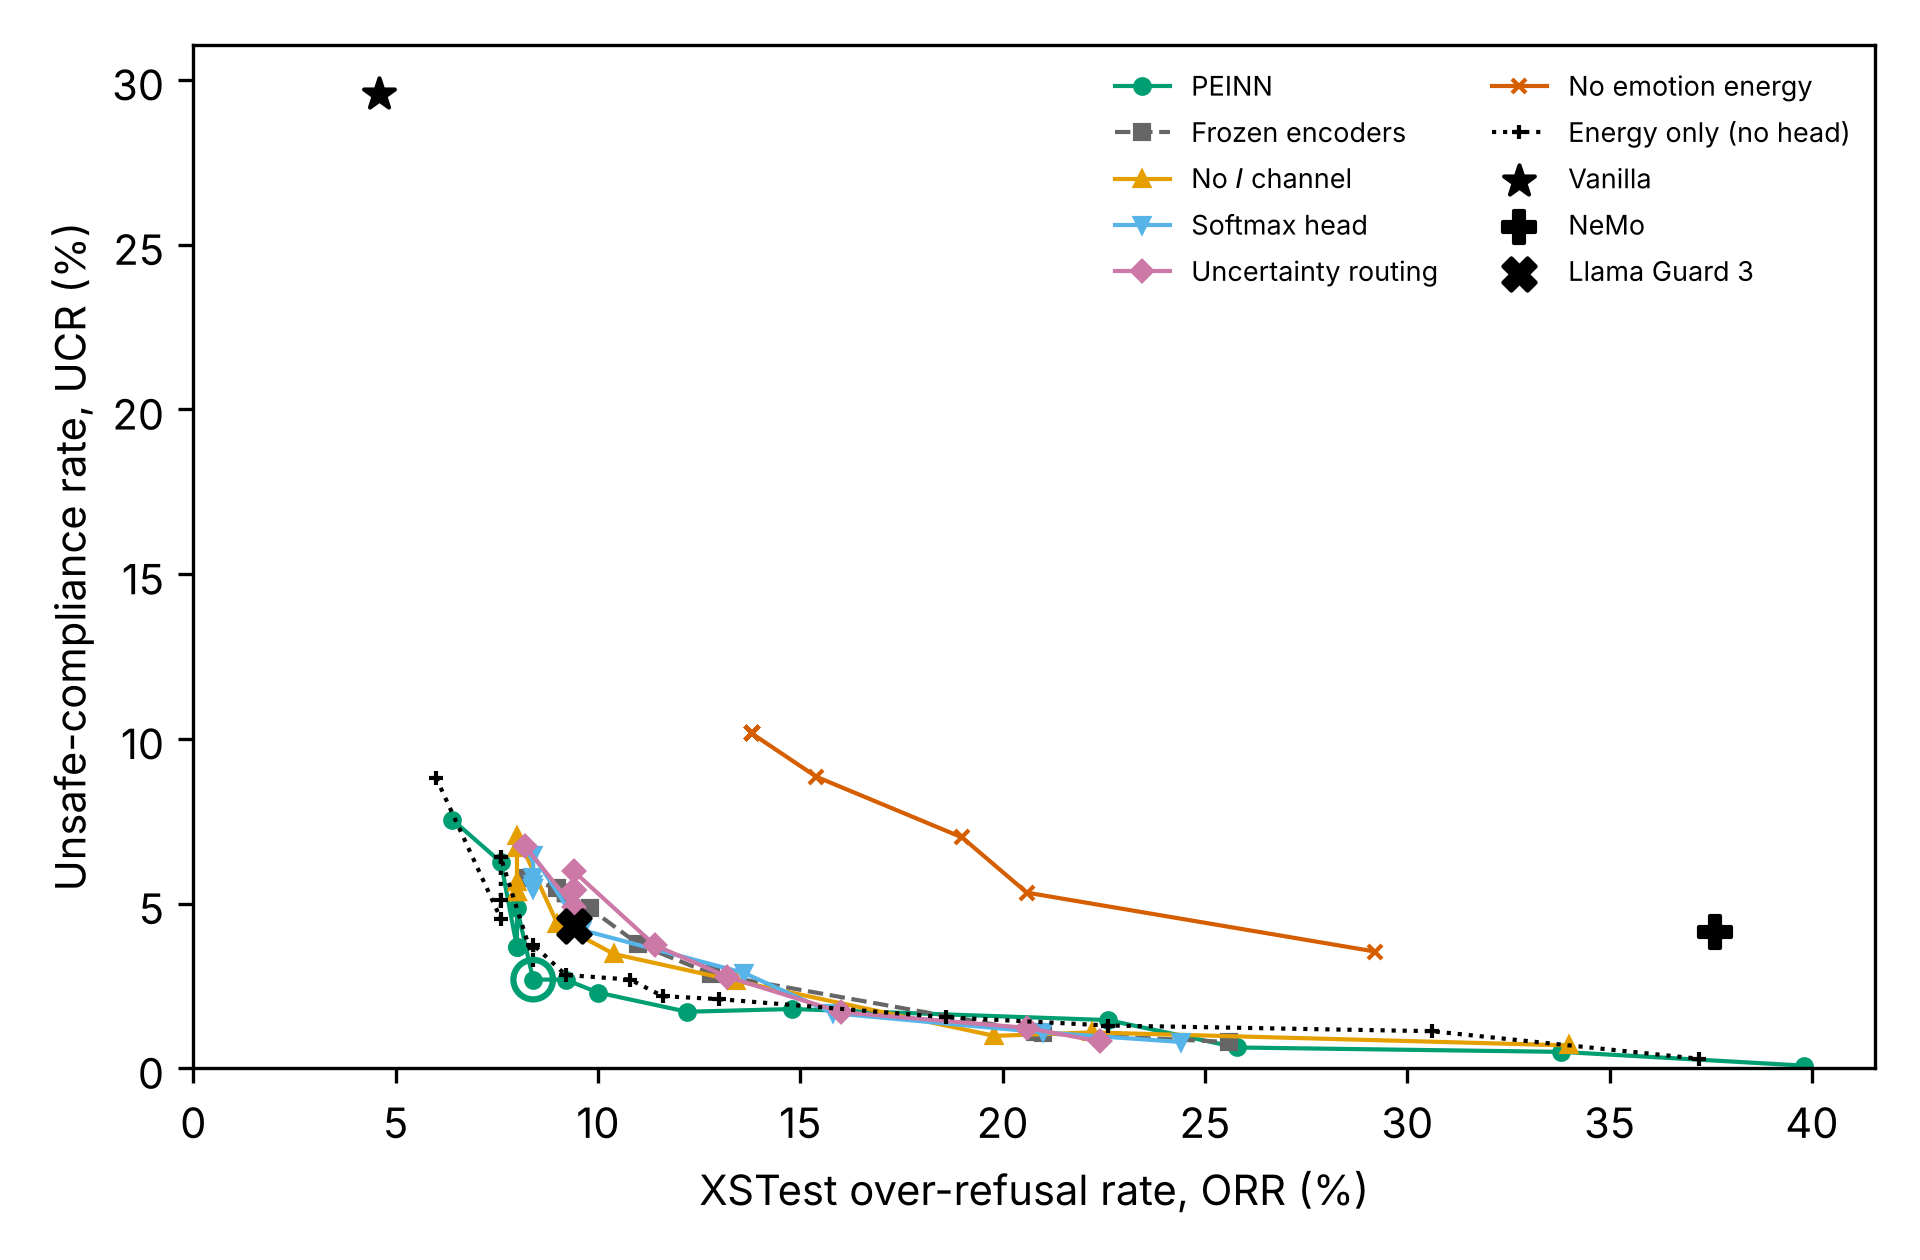
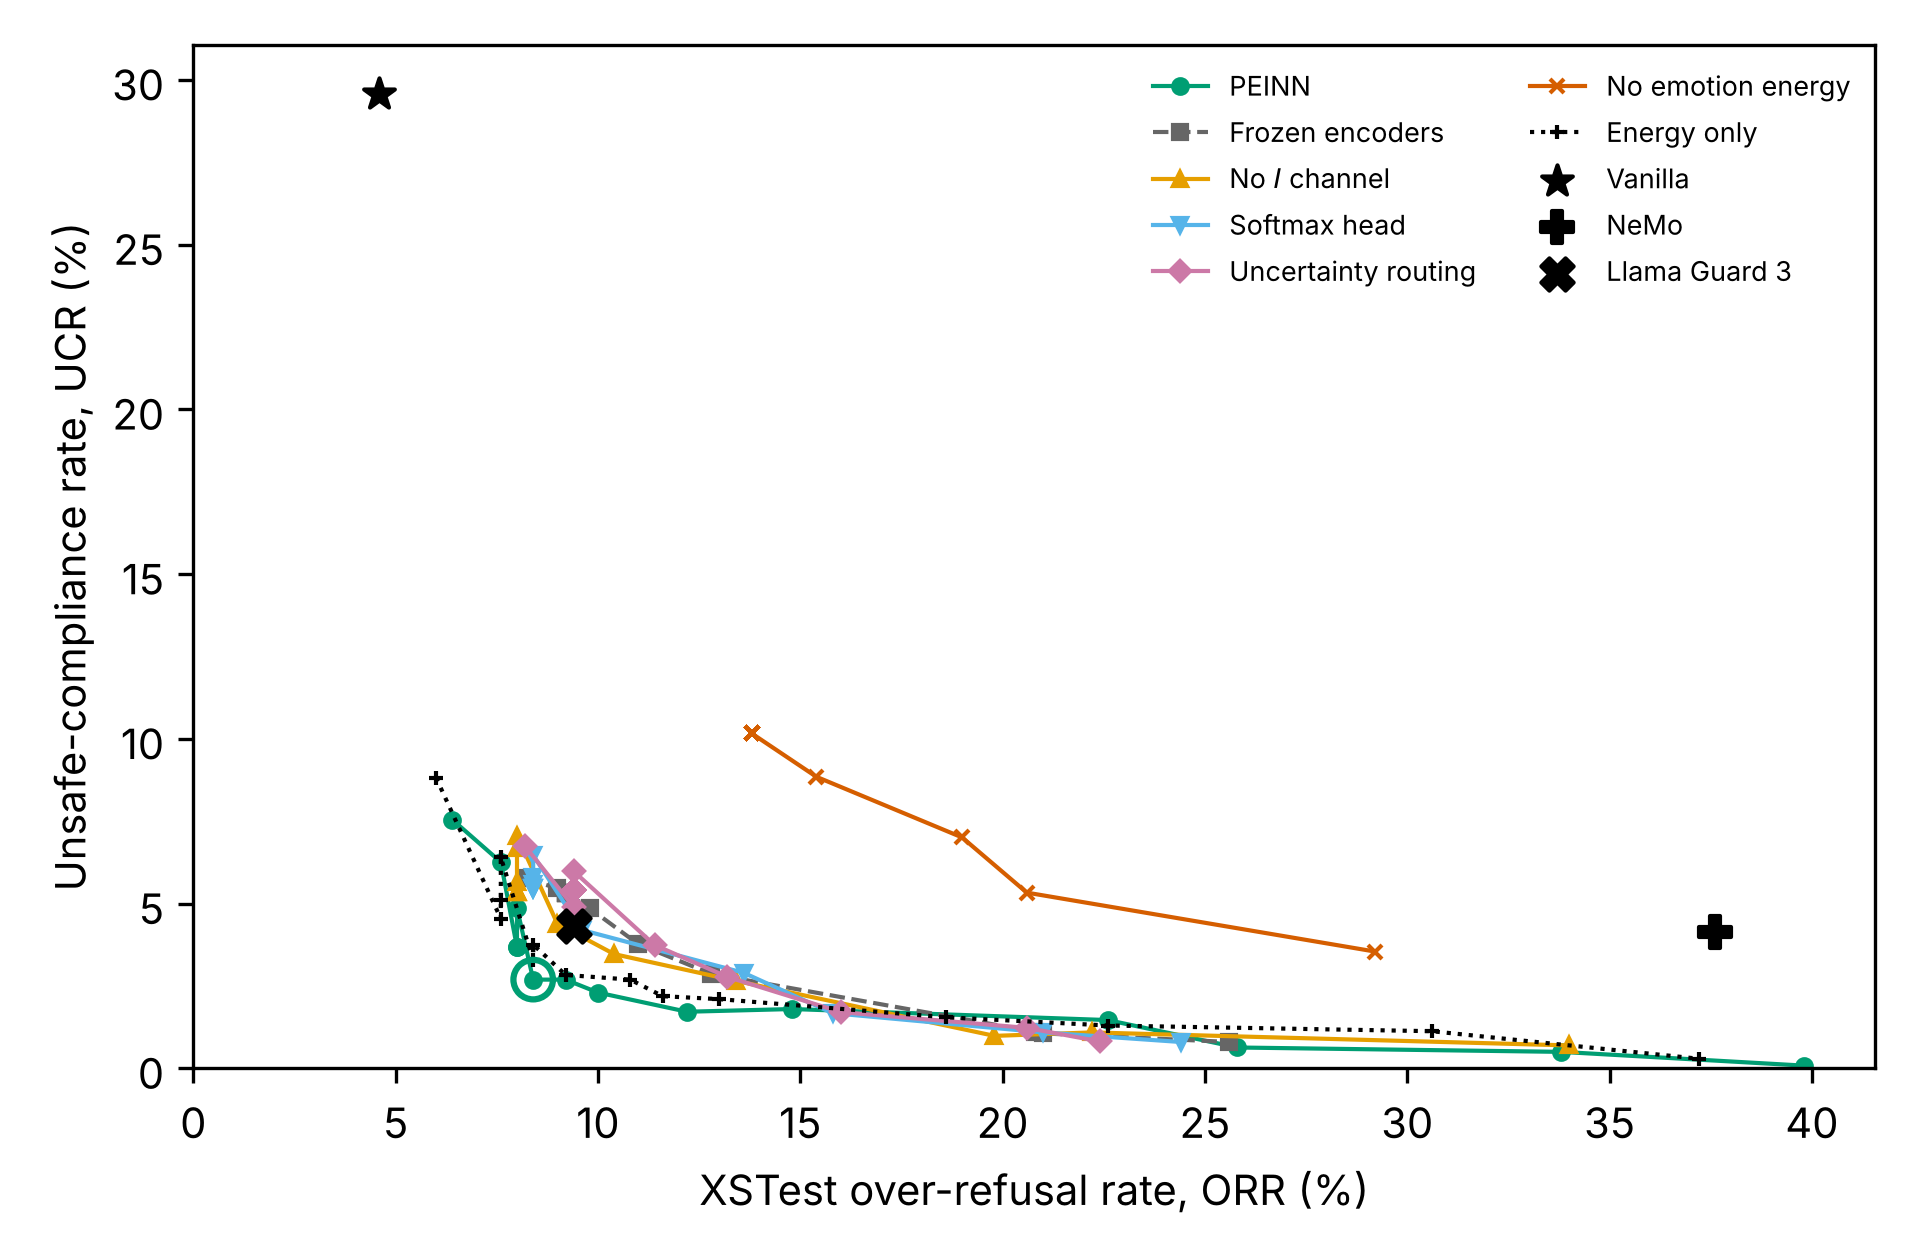
v21r paper tables: calibration, route cost and grouped ablation table for Section 4.7-4.10 (DESIGN.md 37)
Claude-Session: https://claude.ai/code/session_01EYuobj3uWoUKAsLA4THHsZ

Changed region(s): [[0.7812, 0.0619, 0.9688, 0.2476], [0.5938, 0.0619, 0.75, 0.2476]]

diff --git a/revision/aai_r1/v21r/paper_methods.py b/revision/aai_r1/v21r/paper_methods.py
@@ -91,7 +91,57 @@ def paper_methods(check: bool = False, log=print) -> int:
     C.jdump(out, o / "methods.json")
     log(f"  test {test}\n  routes {routes}\n  harmbench {harm}")
     figures(u, th, harm, o)
+    calibration(check, o)
+    route_cost(check, o)
     return 0
+
+
+def _r3(x: float) -> str:
+    """Three decimals, half up (the stored values have four)."""
+    from decimal import ROUND_HALF_UP, Decimal
+    return str(Decimal(str(x)).quantize(Decimal("0.001"), rounding=ROUND_HALF_UP))
+
+
+def calibration(check: bool, o) -> None:
+    """ECE and Brier of the main variant's T, I, F on the test split, and F against XSTest's human labels
+    (analysis.json); ten-bin reliability diagrams."""
+    a = C.jload(D.odir(check) / "analysis" / "analysis.json")
+    c, x = a["calibration"][TH.MAIN_VARIANT], a["xstest_F"][TH.MAIN_VARIANT]
+    rows = [(f"${k}$", "test split, teacher label", c[k]["binary"]) for k in ("T", "I", "F")]
+    rows.append(("$F$", "XSTest, human label", x))
+    (o / "tab_calibration.tex").write_text("\n".join(f"{a_} & {b} & {r['n']:,} & {_r3(r['ece'])} & {_r3(r['brier'])} \\\\".replace(f"{r['n']:,}", f"{r['n']:,}".replace(",", "{,}"))
+                                                     for a_, b, r in rows) + "\n", encoding="utf-8")
+    import matplotlib
+    matplotlib.use("Agg")
+    import matplotlib.pyplot as plt
+    fig, axes = plt.subplots(1, 4, figsize=(12, 3.1))
+    for ax, (lab, src, r) in zip(axes, rows):
+        rel = r.get("reliability") or []
+        ax.plot([0, 1], [0, 1], color="#999", lw=0.8, ls="--")
+        ax.plot([q["conf"] for q in rel], [q["acc"] for q in rel], marker="o", ms=3.5, color="#009e73", lw=1)
+        ax.set_xlim(0, 1)
+        ax.set_ylim(0, 1)
+        ax.set_xlabel(f"Predicted {lab}")
+        ax.set_title(f"{lab}, {src} (ECE {_r3(r["ece"])})", fontsize=8.5)
+    axes[0].set_ylabel("Observed share of positives")
+    fig.tight_layout()
+    fig.savefig(o / "calibration.png", dpi=300, bbox_inches="tight")
+    plt.close(fig)
+
+
+def route_cost(check: bool, o) -> None:
+    """Generation calls, input and output tokens and Ollama generation seconds per request for each route and base
+    (route_cost.json tiers, deployed accounting: a Hard-block calls nothing)."""
+    t = C.jload(D.odir(check) / "route_cost.json")["tiers"]
+    bases = ("zephyr", "qwen", "gemma4", "gemma3")
+    body = []
+    for tier in TIERS:
+        r = [t[f"{b}|{tier}"]["deployed"] for b in bases]
+        calls = {int(x["calls"]) for x in r}
+        cells = [LABEL[tier], "/".join(str(c) for c in sorted(calls))]
+        cells += [f"{x['prompt_tokens'] + x['output_tokens']:.0f}" for x in r] + [f"{x['ollama_s']:.2f}" for x in r]
+        body.append(" & ".join(cells) + " \\\\")
+    (o / "tab_route_cost.tex").write_text("\n".join(body) + "\n", encoding="utf-8")
 
 
 def figures(u: pd.DataFrame, th: dict, harm: dict, o) -> None:

diff --git a/revision/aai_r1/v21r/paper_ablation.py b/revision/aai_r1/v21r/paper_ablation.py
@@ -30,12 +30,14 @@ BENCHES = ("harmbench", "taxonomy", "xstest", "ethics", "morables")
 KEYS = {"harmbench": ["behavior_id"], "xstest": ["item_id"], "taxonomy": ["scenario_id"], "ethics": ["instrument", "item_id"],
         "morables": ["item_id", "variant"]}
 MAIN = f"{TH.MAIN_VARIANT}@{TH.MAIN_CAP:g}"
-LABEL = {"A0ftM": "PEINN", "A0ft": "Fine-tuned encoders, no OOD term", "A0": "Frozen encoders",
+LABEL = {"A0ftM": "PEINN", "A0ft": "No OOD check", "A0": "Frozen encoders",
          "A1": "No $I$ channel", "A2": "Softmax head", "A3": "Uncertainty routing", "A5": "No emotion energy",
-         "A6p": "No principle anchors", "A6e": "No emotion feature", "A7": "Fine-tuned MiniLM classifier",
+         "A6p": "No principle anchors", "A6e": "No emotion feature", "A7": "MiniLM classifier",
          "A4a": "Always Direct", "A4b": "Always Deliberation", "A4c": "Block + Direct", "A4d": "Block + Deliberation",
-         "A9": "Energy only (no head)"}
-ROWS = ("A0ftM", "A0ft", "A0", "A1", "A2", "A3", "A5", "A6p", "A6e", "A7", "A9", "A4a", "A4b", "A4c", "A4d")
+         "A9": "Energy only"}
+# groups, a rule between them: PEINN | encoders (against PEINN) | components (against the frozen-encoder A0) | routing
+GROUPS = (("A0ftM",), ("A0ft", "A0"), ("A1", "A2", "A3", "A5", "A6p", "A6e", "A7"), ("A9", "A4a", "A4b", "A4c", "A4d"))
+ROWS = tuple(v for g in GROUPS for v in g)
 
 
 def forced(check: bool, bench: str, base: str) -> pd.DataFrame:
@@ -133,18 +135,16 @@ def table(out: dict, o) -> None:
     """Mean over the four bases at the main cap; A8 is qwen2.5-7B only, so it is given with qwen's PEINN beside it."""
     cap = f"{TH.MAIN_CAP:g}"
     body = []
-    for v in ROWS:
-        key = v if v.startswith("A4") else f"{v}@{cap}"
-        r = out["variants"].get(key)
-        if not r:
-            continue
-        cells = [LABEL[v]] + [f"{_mean(r, k):.1f}" for k in ("ucr", "orr", "ethics", "morables")]
-        body.append(" & ".join(cells) + " \\\\")
-        if v == "A0ftM":
-            body.append("\\midrule")
-        if v in ("A9",):
-            body.append("\\midrule")
-    body.append("\\midrule")
+    for g in GROUPS:
+        for v in g:
+            key = v if v.startswith("A4") else f"{v}@{cap}"
+            r = out["variants"].get(key)
+            if not r:
+                continue
+            cells = [LABEL[v] if v == "A0ftM" else f"{LABEL[v]} ({v})"]
+            cells += [f"{_mean(r, k):.1f}" for k in ("ucr", "orr", "ethics", "morables")]
+            body.append(" & ".join(cells) + " \\\\")
+        body.append("\\midrule")
     for s, lab in (("Vanilla", "Vanilla (no defense)"), ("NeMo", "NeMo Guardrails"), ("LlamaGuard", "Llama Guard 3")):
         r = out["defences"][s]
         body.append(" & ".join([lab] + [f"{_mean(r, k):.1f}" for k in ("ucr", "orr", "ethics", "morables")]) + " \\\\")

diff --git a/revision/aai_r1/results/paper/tab_ablation.tex b/revision/aai_r1/results/paper/tab_ablation.tex
@@ -1,20 +1,21 @@
 PEINN & 2.7 & 8.4 & 78.4 & 44.4 \\
 \midrule
-Fine-tuned encoders, no OOD term & 2.7 & 8.8 & 78.3 & 44.1 \\
-Frozen encoders & 5.3 & 9.2 & 76.4 & 43.2 \\
-No $I$ channel & 7.1 & 8.0 & 78.6 & 46.3 \\
-Softmax head & 5.5 & 8.4 & 76.7 & 41.2 \\
-Uncertainty routing & 5.4 & 9.4 & 76.4 & 43.2 \\
-No emotion energy & 10.2 & 13.8 & 79.0 & 38.8 \\
-No principle anchors & 7.2 & 7.4 & 79.8 & 41.8 \\
-No emotion feature & 6.0 & 9.0 & 76.6 & 44.0 \\
-Fine-tuned MiniLM classifier & 6.5 & 7.4 & 79.6 & 46.4 \\
-Energy only (no head) & 3.3 & 8.4 & 78.2 & 44.3 \\
+No OOD check (A0ft) & 2.7 & 8.8 & 78.3 & 44.1 \\
+Frozen encoders (A0) & 5.3 & 9.2 & 76.4 & 43.2 \\
 \midrule
-Always Direct & 29.3 & 4.4 & 78.9 & 47.3 \\
-Always Deliberation & 17.0 & 8.8 & 80.0 & 47.3 \\
-Block + Direct & 3.0 & 8.4 & 78.2 & 44.3 \\
-Block + Deliberation & 1.5 & 12.4 & 79.3 & 44.3 \\
+No $I$ channel (A1) & 7.1 & 8.0 & 78.6 & 46.3 \\
+Softmax head (A2) & 5.5 & 8.4 & 76.7 & 41.2 \\
+Uncertainty routing (A3) & 5.4 & 9.4 & 76.4 & 43.2 \\
+No emotion energy (A5) & 10.2 & 13.8 & 79.0 & 38.8 \\
+No principle anchors (A6p) & 7.2 & 7.4 & 79.8 & 41.8 \\
+No emotion feature (A6e) & 6.0 & 9.0 & 76.6 & 44.0 \\
+MiniLM classifier (A7) & 6.5 & 7.4 & 79.6 & 46.4 \\
+\midrule
+Energy only (A9) & 3.3 & 8.4 & 78.2 & 44.3 \\
+Always Direct (A4a) & 29.3 & 4.4 & 78.9 & 47.3 \\
+Always Deliberation (A4b) & 17.0 & 8.8 & 80.0 & 47.3 \\
+Block + Direct (A4c) & 3.0 & 8.4 & 78.2 & 44.3 \\
+Block + Deliberation (A4d) & 1.5 & 12.4 & 79.3 & 44.3 \\
 \midrule
 Vanilla (no defense) & 29.6 & 4.6 & 78.9 & 47.3 \\
 NeMo Guardrails & 4.1 & 37.6 & 42.1 & 36.1 \\

diff --git a/revision/aai_r1/results/paper/tab_route_cost.tex b/revision/aai_r1/results/paper/tab_route_cost.tex
@@ -1,0 +1,5 @@
+Hard-block & 0 & 0 & 0 & 0 & 0 & 0.00 & 0.00 & 0.00 & 0.00 \\
+Reasoned-refusal & 2 & 671 & 503 & 676 & 588 & 1.51 & 1.16 & 2.22 & 2.76 \\
+Deliberation & 2 & 668 & 516 & 634 & 703 & 1.57 & 1.26 & 2.14 & 3.74 \\
+Soft-reasoning & 2 & 668 & 516 & 634 & 703 & 1.58 & 1.25 & 2.14 & 3.70 \\
+Direct-answer & 1 & 330 & 312 & 338 & 346 & 0.80 & 0.81 & 1.17 & 1.85 \\

diff --git a/revision/aai_r1/results/paper/tab_calibration.tex b/revision/aai_r1/results/paper/tab_calibration.tex
@@ -1,0 +1,4 @@
+$T$ & test split, teacher label & 5{,}976 & 0.048 & 0.057 \\
+$I$ & test split, teacher label & 6{,}211 & 0.025 & 0.024 \\
+$F$ & test split, teacher label & 5{,}564 & 0.019 & 0.055 \\
+$F$ & XSTest, human label & 191 & 0.093 & 0.138 \\
